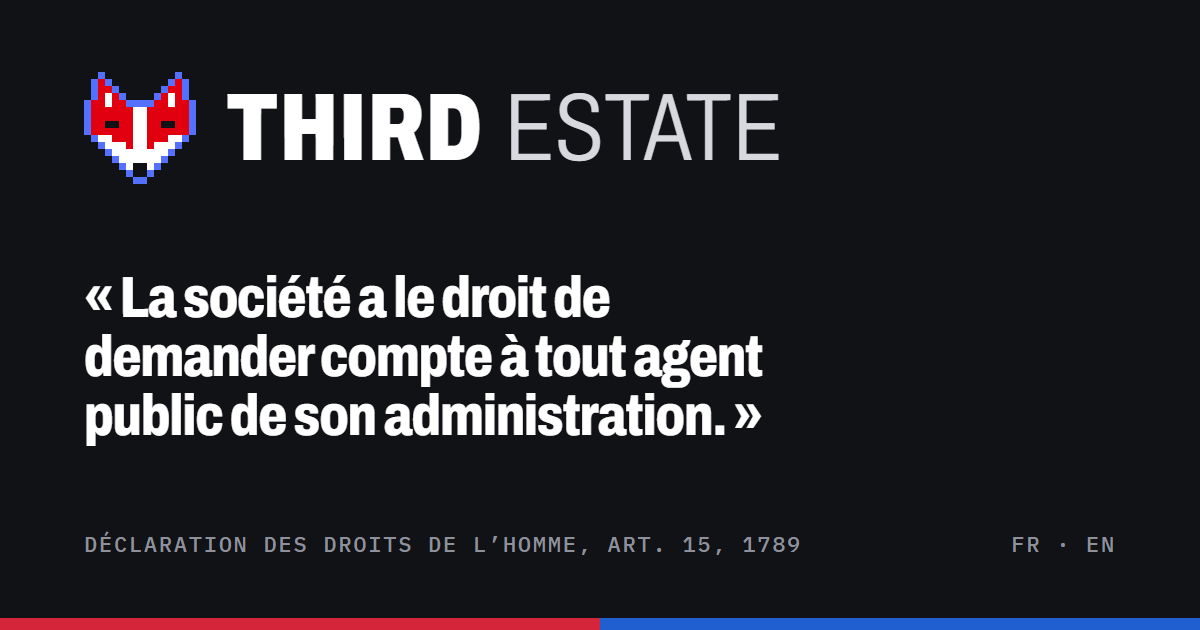
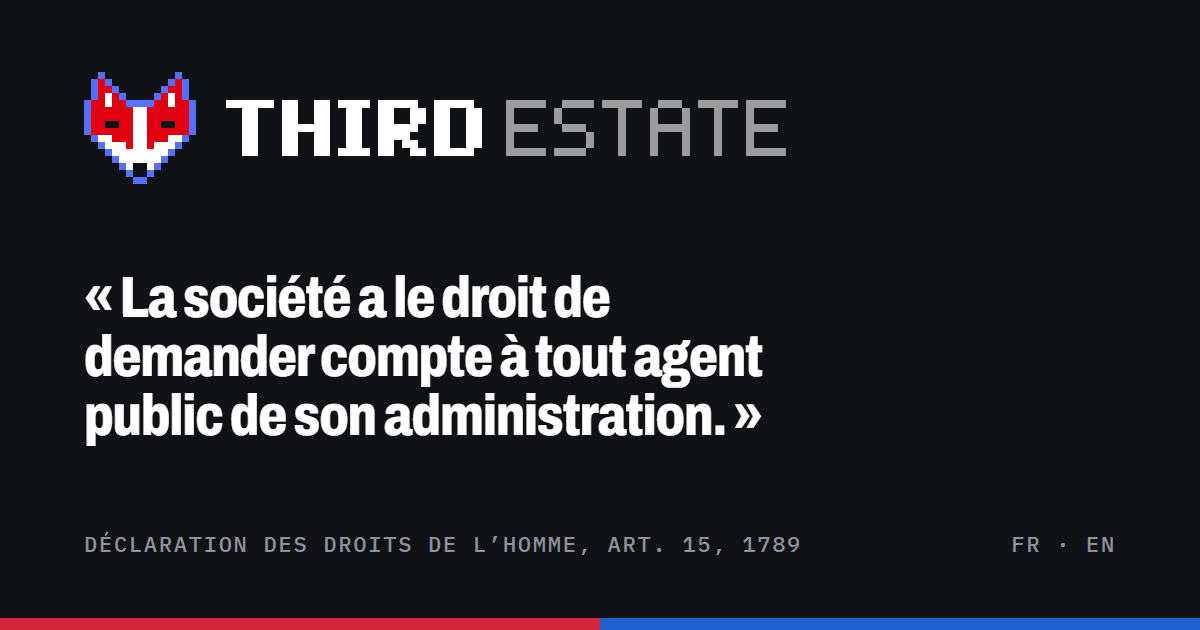
update

Changed region(s): [[0.185, 0.1508, 0.6783, 0.2714]]

diff --git a/docs/brand/og-source.html b/docs/brand/og-source.html
@@ -5,14 +5,14 @@
 html,body{margin:0;width:1200px;height:630px;background:#111216;color:#fff;font-family:Archivo,sans-serif;overflow:hidden}
 .wrap{position:absolute;inset:0;padding:72px 84px;display:flex;flex-direction:column;justify-content:space-between}
 .top{display:flex;align-items:center;gap:30px}
-.top svg{width:112px;height:112px;display:block}
+.top svg{display:block}.top svg.fox{width:112px;height:112px}
 .word{font-size:96px;font-weight:850;font-stretch:75%;text-transform:uppercase;letter-spacing:.01em;line-height:1}
 .word span{font-weight:300;color:#d8d9de;margin-left:.22em}
 h1{font-size:58px;font-weight:800;font-stretch:78%;line-height:1.02;letter-spacing:-.02em;margin:0;max-width:24ch}
 .foot{font:500 22px 'IBM Plex Mono',monospace;text-transform:uppercase;letter-spacing:.08em;color:#8e919b;display:flex;justify-content:space-between}
 .bar{position:absolute;left:0;right:0;bottom:0;height:12px;background:linear-gradient(90deg,#d4253a 0 50%,#1f5fcf 50% 100%)}
 </style></head><body><div class="wrap">
-<div class="top"><svg class="fox" viewBox="0 0 16 16" width="112" height="112" shape-rendering="crispEdges" aria-hidden="true"><rect x="2" y="0" width="1" height="1" fill="#5470ff"/><rect x="13" y="0" width="1" height="1" fill="#5470ff"/><rect x="1" y="1" width="1" height="1" fill="#5470ff"/><rect x="2" y="1" width="1" height="1" fill="#e1000f"/><rect x="3" y="1" width="1" height="1" fill="#5470ff"/><rect x="12" y="1" width="1" height="1" fill="#5470ff"/><rect x="13" y="1" width="1" height="1" fill="#e1000f"/><rect x="14" y="1" width="1" height="1" fill="#5470ff"/><rect x="1" y="2" width="1" height="1" fill="#5470ff"/><rect x="2" y="2" width="2" height="1" fill="#e1000f"/><rect x="4" y="2" width="1" height="1" fill="#5470ff"/><rect x="11" y="2" width="1" height="1" fill="#5470ff"/><rect x="12" y="2" width="2" height="1" fill="#e1000f"/><rect x="14" y="2" width="1" height="1" fill="#5470ff"/><rect x="1" y="3" width="1" height="1" fill="#5470ff"/><rect x="2" y="3" width="1" height="1" fill="#e1000f"/><rect x="3" y="3" width="1" height="1" fill="#ffffff"/><rect x="4" y="3" width="1" height="1" fill="#e1000f"/><rect x="5" y="3" width="1" height="1" fill="#5470ff"/><rect x="10" y="3" width="1" height="1" fill="#5470ff"/><rect x="11" y="3" width="1" height="1" fill="#e1000f"/><rect x="12" y="3" width="1" height="1" fill="#ffffff"/><rect x="13" y="3" width="1" height="1" fill="#e1000f"/><rect x="14" y="3" width="1" height="1" fill="#5470ff"/><rect x="0" y="4" width="1" height="1" fill="#5470ff"/><rect x="1" y="4" width="2" height="1" fill="#e1000f"/><rect x="3" y="4" width="1" height="1" fill="#ffffff"/><rect x="4" y="4" width="2" height="1" fill="#e1000f"/><rect x="6" y="4" width="4" height="1" fill="#5470ff"/><rect x="10" y="4" width="2" height="1" fill="#e1000f"/><rect x="12" y="4" width="1" height="1" fill="#ffffff"/><rect x="13" y="4" width="2" height="1" fill="#e1000f"/><rect x="15" y="4" width="1" height="1" fill="#5470ff"/><rect x="0" y="5" width="1" height="1" fill="#5470ff"/><rect x="1" y="5" width="6" height="1" fill="#e1000f"/><rect x="7" y="5" width="2" height="1" fill="#ffffff"/><rect x="9" y="5" width="6" height="1" fill="#e1000f"/><rect x="15" y="5" width="1" height="1" fill="#5470ff"/><rect x="0" y="6" width="1" height="1" fill="#5470ff"/><rect x="1" y="6" width="6" height="1" fill="#e1000f"/><rect x="7" y="6" width="2" height="1" fill="#ffffff"/><rect x="9" y="6" width="6" height="1" fill="#e1000f"/><rect x="15" y="6" width="1" height="1" fill="#5470ff"/><rect x="0" y="7" width="1" height="1" fill="#5470ff"/><rect x="1" y="7" width="2" height="1" fill="#e1000f"/><rect x="3" y="7" width="2" height="1" fill="#111216"/><rect x="5" y="7" width="2" height="1" fill="#e1000f"/><rect x="7" y="7" width="2" height="1" fill="#ffffff"/><rect x="9" y="7" width="2" height="1" fill="#e1000f"/><rect x="11" y="7" width="2" height="1" fill="#111216"/><rect x="13" y="7" width="2" height="1" fill="#e1000f"/><rect x="15" y="7" width="1" height="1" fill="#5470ff"/><rect x="0" y="8" width="1" height="1" fill="#5470ff"/><rect x="1" y="8" width="6" height="1" fill="#e1000f"/><rect x="7" y="8" width="2" height="1" fill="#ffffff"/><rect x="9" y="8" width="6" height="1" fill="#e1000f"/><rect x="15" y="8" width="1" height="1" fill="#5470ff"/><rect x="1" y="9" width="1" height="1" fill="#5470ff"/><rect x="2" y="9" width="2" height="1" fill="#ffffff"/><rect x="4" y="9" width="3" height="1" fill="#e1000f"/><rect x="7" y="9" width="2" height="1" fill="#ffffff"/><rect x="9" y="9" width="3" height="1" fill="#e1000f"/><rect x="12" y="9" width="2" height="1" fill="#ffffff"/><rect x="14" y="9" width="1" height="1" fill="#5470ff"/><rect x="2" y="10" width="1" height="1" fill="#5470ff"/><rect x="3" y="10" width="3" height="1" fill="#ffffff"/><rect x="6" y="10" width="1" height="1" fill="#e1000f"/><rect x="7" y="10" width="2" height="1" fill="#ffffff"/><rect x="9" y="10" width="1" height="1" fill="#e1000f"/><rect x="10" y="10" width="3" height="1" fill="#ffffff"/><rect x="13" y="10" width="1" height="1" fill="#5470ff"/><rect x="3" y="11" width="1" height="1" fill="#5470ff"/><rect x="4" y="11" width="8" height="1" fill="#ffffff"/><rect x="12" y="11" width="1" height="1" fill="#5470ff"/><rect x="4" y="12" width="1" height="1" fill="#5470ff"/><rect x="5" y="12" width="6" height="1" fill="#ffffff"/><rect x="11" y="12" width="1" height="1" fill="#5470ff"/><rect x="5" y="13" width="1" height="1" fill="#5470ff"/><rect x="6" y="13" width="1" height="1" fill="#ffffff"/><rect x="7" y="13" width="2" height="1" fill="#111216"/><rect x="9" y="13" width="1" height="1" fill="#ffffff"/><rect x="10" y="13" width="1" height="1" fill="#5470ff"/><rect x="6" y="14" width="1" height="1" fill="#5470ff"/><rect x="7" y="14" width="2" height="1" fill="#111216"/><rect x="9" y="14" width="1" height="1" fill="#5470ff"/><rect x="7" y="15" width="2" height="1" fill="#5470ff"/></svg><div class="word">Third<span>Estate</span></div></div>
+<div class="top"><svg class="fox" viewBox="0 0 16 16" width="112" height="112" shape-rendering="crispEdges" aria-hidden="true"><rect x="2" y="0" width="1" height="1" fill="#5470ff"/><rect x="13" y="0" width="1" height="1" fill="#5470ff"/><rect x="1" y="1" width="1" height="1" fill="#5470ff"/><rect x="2" y="1" width="1" height="1" fill="#e1000f"/><rect x="3" y="1" width="1" height="1" fill="#5470ff"/><rect x="12" y="1" width="1" height="1" fill="#5470ff"/><rect x="13" y="1" width="1" height="1" fill="#e1000f"/><rect x="14" y="1" width="1" height="1" fill="#5470ff"/><rect x="1" y="2" width="1" height="1" fill="#5470ff"/><rect x="2" y="2" width="2" height="1" fill="#e1000f"/><rect x="4" y="2" width="1" height="1" fill="#5470ff"/><rect x="11" y="2" width="1" height="1" fill="#5470ff"/><rect x="12" y="2" width="2" height="1" fill="#e1000f"/><rect x="14" y="2" width="1" height="1" fill="#5470ff"/><rect x="1" y="3" width="1" height="1" fill="#5470ff"/><rect x="2" y="3" width="1" height="1" fill="#e1000f"/><rect x="3" y="3" width="1" height="1" fill="#ffffff"/><rect x="4" y="3" width="1" height="1" fill="#e1000f"/><rect x="5" y="3" width="1" height="1" fill="#5470ff"/><rect x="10" y="3" width="1" height="1" fill="#5470ff"/><rect x="11" y="3" width="1" height="1" fill="#e1000f"/><rect x="12" y="3" width="1" height="1" fill="#ffffff"/><rect x="13" y="3" width="1" height="1" fill="#e1000f"/><rect x="14" y="3" width="1" height="1" fill="#5470ff"/><rect x="0" y="4" width="1" height="1" fill="#5470ff"/><rect x="1" y="4" width="2" height="1" fill="#e1000f"/><rect x="3" y="4" width="1" height="1" fill="#ffffff"/><rect x="4" y="4" width="2" height="1" fill="#e1000f"/><rect x="6" y="4" width="4" height="1" fill="#5470ff"/><rect x="10" y="4" width="2" height="1" fill="#e1000f"/><rect x="12" y="4" width="1" height="1" fill="#ffffff"/><rect x="13" y="4" width="2" height="1" fill="#e1000f"/><rect x="15" y="4" width="1" height="1" fill="#5470ff"/><rect x="0" y="5" width="1" height="1" fill="#5470ff"/><rect x="1" y="5" width="6" height="1" fill="#e1000f"/><rect x="7" y="5" width="2" height="1" fill="#ffffff"/><rect x="9" y="5" width="6" height="1" fill="#e1000f"/><rect x="15" y="5" width="1" height="1" fill="#5470ff"/><rect x="0" y="6" width="1" height="1" fill="#5470ff"/><rect x="1" y="6" width="6" height="1" fill="#e1000f"/><rect x="7" y="6" width="2" height="1" fill="#ffffff"/><rect x="9" y="6" width="6" height="1" fill="#e1000f"/><rect x="15" y="6" width="1" height="1" fill="#5470ff"/><rect x="0" y="7" width="1" height="1" fill="#5470ff"/><rect x="1" y="7" width="2" height="1" fill="#e1000f"/><rect x="3" y="7" width="2" height="1" fill="#111216"/><rect x="5" y="7" width="2" height="1" fill="#e1000f"/><rect x="7" y="7" width="2" height="1" fill="#ffffff"/><rect x="9" y="7" width="2" height="1" fill="#e1000f"/><rect x="11" y="7" width="2" height="1" fill="#111216"/><rect x="13" y="7" width="2" height="1" fill="#e1000f"/><rect x="15" y="7" width="1" height="1" fill="#5470ff"/><rect x="0" y="8" width="1" height="1" fill="#5470ff"/><rect x="1" y="8" width="6" height="1" fill="#e1000f"/><rect x="7" y="8" width="2" height="1" fill="#ffffff"/><rect x="9" y="8" width="6" height="1" fill="#e1000f"/><rect x="15" y="8" width="1" height="1" fill="#5470ff"/><rect x="1" y="9" width="1" height="1" fill="#5470ff"/><rect x="2" y="9" width="2" height="1" fill="#ffffff"/><rect x="4" y="9" width="3" height="1" fill="#e1000f"/><rect x="7" y="9" width="2" height="1" fill="#ffffff"/><rect x="9" y="9" width="3" height="1" fill="#e1000f"/><rect x="12" y="9" width="2" height="1" fill="#ffffff"/><rect x="14" y="9" width="1" height="1" fill="#5470ff"/><rect x="2" y="10" width="1" height="1" fill="#5470ff"/><rect x="3" y="10" width="3" height="1" fill="#ffffff"/><rect x="6" y="10" width="1" height="1" fill="#e1000f"/><rect x="7" y="10" width="2" height="1" fill="#ffffff"/><rect x="9" y="10" width="1" height="1" fill="#e1000f"/><rect x="10" y="10" width="3" height="1" fill="#ffffff"/><rect x="13" y="10" width="1" height="1" fill="#5470ff"/><rect x="3" y="11" width="1" height="1" fill="#5470ff"/><rect x="4" y="11" width="8" height="1" fill="#ffffff"/><rect x="12" y="11" width="1" height="1" fill="#5470ff"/><rect x="4" y="12" width="1" height="1" fill="#5470ff"/><rect x="5" y="12" width="6" height="1" fill="#ffffff"/><rect x="11" y="12" width="1" height="1" fill="#5470ff"/><rect x="5" y="13" width="1" height="1" fill="#5470ff"/><rect x="6" y="13" width="1" height="1" fill="#ffffff"/><rect x="7" y="13" width="2" height="1" fill="#111216"/><rect x="9" y="13" width="1" height="1" fill="#ffffff"/><rect x="10" y="13" width="1" height="1" fill="#5470ff"/><rect x="6" y="14" width="1" height="1" fill="#5470ff"/><rect x="7" y="14" width="2" height="1" fill="#111216"/><rect x="9" y="14" width="1" height="1" fill="#5470ff"/><rect x="7" y="15" width="2" height="1" fill="#5470ff"/></svg><svg class="wordmark" viewBox="0 0 70 7" width="560" height="56" shape-rendering="crispEdges" aria-hidden="true"><rect x="0" y="0" width="6" height="1" fill="currentColor"/><rect x="2" y="1" width="2" height="1" fill="currentColor"/><rect x="2" y="2" width="2" height="1" fill="currentColor"/><rect x="2" y="3" width="2" height="1" fill="currentColor"/><rect x="2" y="4" width="2" height="1" fill="currentColor"/><rect x="2" y="5" width="2" height="1" fill="currentColor"/><rect x="2" y="6" width="2" height="1" fill="currentColor"/><rect x="7" y="0" width="2" height="1" fill="currentColor"/><rect x="11" y="0" width="2" height="1" fill="currentColor"/><rect x="7" y="1" width="2" height="1" fill="currentColor"/><rect x="11" y="1" width="2" height="1" fill="currentColor"/><rect x="7" y="2" width="2" height="1" fill="currentColor"/><rect x="11" y="2" width="2" height="1" fill="currentColor"/><rect x="7" y="3" width="6" height="1" fill="currentColor"/><rect x="7" y="4" width="2" height="1" fill="currentColor"/><rect x="11" y="4" width="2" height="1" fill="currentColor"/><rect x="7" y="5" width="2" height="1" fill="currentColor"/><rect x="11" y="5" width="2" height="1" fill="currentColor"/><rect x="7" y="6" width="2" height="1" fill="currentColor"/><rect x="11" y="6" width="2" height="1" fill="currentColor"/><rect x="14" y="0" width="4" height="1" fill="currentColor"/><rect x="15" y="1" width="2" height="1" fill="currentColor"/><rect x="15" y="2" width="2" height="1" fill="currentColor"/><rect x="15" y="3" width="2" height="1" fill="currentColor"/><rect x="15" y="4" width="2" height="1" fill="currentColor"/><rect x="15" y="5" width="2" height="1" fill="currentColor"/><rect x="14" y="6" width="4" height="1" fill="currentColor"/><rect x="19" y="0" width="5" height="1" fill="currentColor"/><rect x="19" y="1" width="2" height="1" fill="currentColor"/><rect x="23" y="1" width="2" height="1" fill="currentColor"/><rect x="19" y="2" width="2" height="1" fill="currentColor"/><rect x="23" y="2" width="2" height="1" fill="currentColor"/><rect x="19" y="3" width="5" height="1" fill="currentColor"/><rect x="19" y="4" width="4" height="1" fill="currentColor"/><rect x="19" y="5" width="2" height="1" fill="currentColor"/><rect x="22" y="5" width="2" height="1" fill="currentColor"/><rect x="19" y="6" width="2" height="1" fill="currentColor"/><rect x="23" y="6" width="2" height="1" fill="currentColor"/><rect x="26" y="0" width="5" height="1" fill="currentColor"/><rect x="26" y="1" width="2" height="1" fill="currentColor"/><rect x="30" y="1" width="2" height="1" fill="currentColor"/><rect x="26" y="2" width="2" height="1" fill="currentColor"/><rect x="30" y="2" width="2" height="1" fill="currentColor"/><rect x="26" y="3" width="2" height="1" fill="currentColor"/><rect x="30" y="3" width="2" height="1" fill="currentColor"/><rect x="26" y="4" width="2" height="1" fill="currentColor"/><rect x="30" y="4" width="2" height="1" fill="currentColor"/><rect x="26" y="5" width="2" height="1" fill="currentColor"/><rect x="30" y="5" width="2" height="1" fill="currentColor"/><rect x="26" y="6" width="5" height="1" fill="currentColor"/><rect x="35" y="0" width="5" height="1" fill="#9b9b9b"/><rect x="35" y="1" width="1" height="1" fill="#9b9b9b"/><rect x="35" y="2" width="1" height="1" fill="#9b9b9b"/><rect x="35" y="3" width="4" height="1" fill="#9b9b9b"/><rect x="35" y="4" width="1" height="1" fill="#9b9b9b"/><rect x="35" y="5" width="1" height="1" fill="#9b9b9b"/><rect x="35" y="6" width="5" height="1" fill="#9b9b9b"/><rect x="42" y="0" width="4" height="1" fill="#9b9b9b"/><rect x="41" y="1" width="1" height="1" fill="#9b9b9b"/><rect x="41" y="2" width="1" height="1" fill="#9b9b9b"/><rect x="42" y="3" width="3" height="1" fill="#9b9b9b"/><rect x="45" y="4" width="1" height="1" fill="#9b9b9b"/><rect x="45" y="5" width="1" height="1" fill="#9b9b9b"/><rect x="41" y="6" width="4" height="1" fill="#9b9b9b"/><rect x="47" y="0" width="5" height="1" fill="#9b9b9b"/><rect x="49" y="1" width="1" height="1" fill="#9b9b9b"/><rect x="49" y="2" width="1" height="1" fill="#9b9b9b"/><rect x="49" y="3" width="1" height="1" fill="#9b9b9b"/><rect x="49" y="4" width="1" height="1" fill="#9b9b9b"/><rect x="49" y="5" width="1" height="1" fill="#9b9b9b"/><rect x="49" y="6" width="1" height="1" fill="#9b9b9b"/><rect x="54" y="0" width="3" height="1" fill="#9b9b9b"/><rect x="53" y="1" width="1" height="1" fill="#9b9b9b"/><rect x="57" y="1" width="1" height="1" fill="#9b9b9b"/><rect x="53" y="2" width="1" height="1" fill="#9b9b9b"/><rect x="57" y="2" width="1" height="1" fill="#9b9b9b"/><rect x="53" y="3" width="5" height="1" fill="#9b9b9b"/><rect x="53" y="4" width="1" height="1" fill="#9b9b9b"/><rect x="57" y="4" width="1" height="1" fill="#9b9b9b"/><rect x="53" y="5" width="1" height="1" fill="#9b9b9b"/><rect x="57" y="5" width="1" height="1" fill="#9b9b9b"/><rect x="53" y="6" width="1" height="1" fill="#9b9b9b"/><rect x="57" y="6" width="1" height="1" fill="#9b9b9b"/><rect x="59" y="0" width="5" height="1" fill="#9b9b9b"/><rect x="61" y="1" width="1" height="1" fill="#9b9b9b"/><rect x="61" y="2" width="1" height="1" fill="#9b9b9b"/><rect x="61" y="3" width="1" height="1" fill="#9b9b9b"/><rect x="61" y="4" width="1" height="1" fill="#9b9b9b"/><rect x="61" y="5" width="1" height="1" fill="#9b9b9b"/><rect x="61" y="6" width="1" height="1" fill="#9b9b9b"/><rect x="65" y="0" width="5" height="1" fill="#9b9b9b"/><rect x="65" y="1" width="1" height="1" fill="#9b9b9b"/><rect x="65" y="2" width="1" height="1" fill="#9b9b9b"/><rect x="65" y="3" width="4" height="1" fill="#9b9b9b"/><rect x="65" y="4" width="1" height="1" fill="#9b9b9b"/><rect x="65" y="5" width="1" height="1" fill="#9b9b9b"/><rect x="65" y="6" width="5" height="1" fill="#9b9b9b"/></svg></div>
 <h1>« La société a le droit de demander compte à tout agent public de son administration. »</h1>
 <div class="foot"><span>Déclaration des droits de l’homme, art. 15, 1789</span><span>FR · EN</span></div>
 </div><div class="bar"></div></body></html>

diff --git a/docs/brand/identity-v3-options.html b/docs/brand/identity-v3-options.html
@@ -1,0 +1,116 @@
+<!doctype html><html lang="en"><head><meta charset="utf-8"><meta name="viewport" content="width=device-width, initial-scale=1">
+<title>Identity options</title>
+<!-- Served by the Vite dev server: http://localhost:<port>/docs/brand/identity-v3-options.html (fonts come from /public/fonts) -->
+<style>
+@font-face{font-family:Geist;src:url(/fonts/geist-variable.woff2) format("woff2");font-weight:100 900}
+@font-face{font-family:"Geist Mono";src:url(/fonts/geist-mono-variable.woff2) format("woff2");font-weight:100 900}
+@font-face{font-family:Archivo;src:url(/fonts/archivo-100-900-latin.woff2) format("woff2");font-weight:100 900;font-stretch:62% 125%}
+@font-face{font-family:Silkscreen;src:url(/fonts/silkscreen-400-latin.woff2) format("woff2");font-weight:400}
+@font-face{font-family:Silkscreen;src:url(/fonts/silkscreen-700-latin.woff2) format("woff2");font-weight:700}
+:root{--night:#131209;--ink:#0d0f1a;--ink2:#474c56;--ink3:#686d77;--rule:#e2dfd4}
+*{box-sizing:border-box}
+body{margin:0;background:#fff;color:var(--ink);font:400 16px/24px Geist,system-ui,sans-serif}
+main{max-width:1200px;margin:0 auto;padding:48px 16px 96px}
+h1{font:600 36px/40px Geist;letter-spacing:-.02em;margin:0 0 12px}
+.dek{margin:0 0 48px;max-width:680px;color:var(--ink2);font-size:18px;line-height:28px}
+h2{font:600 24px/32px Geist;letter-spacing:-.01em;margin:64px 0 16px;padding-top:24px;border-top:2px solid var(--ink);position:relative}
+h2::before{content:"";position:absolute;top:-5px;left:0;width:8px;height:8px;background:var(--ink)}
+.k{font:400 12px/16px Silkscreen;text-transform:uppercase;letter-spacing:.04em;color:var(--ink3);margin:0}
+/* parts */
+.parts{display:grid;grid-template-columns:repeat(auto-fill,minmax(260px,1fr));gap:16px}
+.part{display:grid;gap:8px}
+.part .sw{display:flex;align-items:center;justify-content:center;gap:24px;height:128px;background:var(--night);color:#fff}
+.part .sw.l{background:#f4f3ee;color:var(--ink)}
+.part b{font:600 16px/24px Geist}
+.part>span{font:400 14px/20px Geist;color:var(--ink2)}
+/* lockups */
+.lock{display:grid;grid-template-columns:1fr 1fr;border:2px solid var(--rule);margin-bottom:24px}
+.lock header{grid-column:1/-1;display:flex;flex-wrap:wrap;align-items:baseline;gap:8px 16px;padding:16px 24px;border-bottom:2px solid var(--rule)}
+.lock header b{font:600 20px/28px Geist}
+.lock header .tag{font:600 12px/16px "Geist Mono";background:var(--ink);color:#fff;padding:2px 8px}
+.lock header p{flex-basis:100%;margin:0;color:var(--ink2);font-size:14px;line-height:20px;max-width:880px}
+.stage{display:flex;align-items:center;justify-content:center;min-height:160px;padding:32px 24px}
+.stage.d{background:var(--night);color:#fff}
+.stage.w{background:#fff;color:var(--ink)}
+.row{grid-column:1/-1;display:flex;flex-wrap:wrap;align-items:center;gap:24px;padding:16px 24px;border-top:2px solid var(--rule);font:500 12px/16px "Geist Mono";color:var(--ink3)}
+.row .bar{display:flex;align-items:center;gap:12px;height:56px;padding:0 16px;background:var(--night);color:#fff;clip-path:polygon(0 4px,2px 4px,2px 2px,4px 2px,4px 0,calc(100% - 4px) 0,calc(100% - 4px) 2px,calc(100% - 2px) 2px,calc(100% - 2px) 4px,100% 4px,100% calc(100% - 4px),calc(100% - 2px) calc(100% - 4px),calc(100% - 2px) calc(100% - 2px),calc(100% - 4px) calc(100% - 2px),calc(100% - 4px) 100%,4px 100%,4px calc(100% - 2px),2px calc(100% - 2px),2px calc(100% - 4px),0 calc(100% - 4px))}
+.row .bar i{font:500 14px Geist;font-style:normal;color:#cfcfcf}
+.fav{display:inline-flex;align-items:center;gap:8px}
+.lk{display:inline-flex;align-items:center}
+.lk.stack{flex-direction:column;gap:12px}
+svg{display:block}
+/* wordmarks */
+.w-archivo{font-family:Archivo;font-weight:850;font-stretch:75%;text-transform:uppercase;letter-spacing:.01em;line-height:1;white-space:nowrap}
+.w-archivo span{font-weight:300;margin-left:.22em}
+.w-geist{font-family:Geist;font-weight:600;letter-spacing:-.035em;line-height:1;white-space:nowrap}
+.w-geist span{font-weight:400;opacity:.62}
+.w-silk{font-family:Silkscreen;font-weight:700;text-transform:uppercase;line-height:1;letter-spacing:.02em;white-space:nowrap}
+.w-silk span{font-weight:400;opacity:.7;margin-left:.3em}
+.w-mono{font-family:"Geist Mono";font-weight:500;letter-spacing:-.02em;line-height:1;white-space:nowrap;text-transform:lowercase}
+.w-mono span{opacity:.55}
+.pick{margin-top:64px;padding:24px;background:#f4f3ee}
+.pick ol{margin:8px 0 0;padding-left:20px}
+</style></head><body><main>
+<p class="k">Third Estate · identity v3 · options</p>
+<h1>Logo and wordmark options</h1>
+<p class="dek">Four marks and five wordmarks, then six ways to combine them. Each lockup is shown on night, on white, in the masthead pill at its real size, and as a favicon at 32 and 16 pixels. All marks stay on a pixel grid.</p>
+
+<h2>The marks</h2>
+<div class="parts" id="marks"></div>
+
+<h2>The wordmarks</h2>
+<div class="parts" id="words"></div>
+
+<h2>Lockups</h2>
+<div id="locks"></div>
+
+<div class="pick"><p class="k">How to answer</p><ol><li>Pick a lockup (1 to 6), or a mark letter and a wordmark number (for example M2 + W3).</li><li>Say anything to change: colours, weight, casing, stacked or inline.</li></ol></div>
+</main>
+<script>
+const BLEU="#000091", BLEU_D="#5470ff", ROUGE="#e1000f", WHITE="#ffffff", EYE="#111216";
+// ---------- grids ----------
+const FOX=["..K..........K..",".KLK........KRK.",".KLLK......KRRK.",".KLILK....KRIRK.","KLLILLKKKKRRIRRK","KLLLLLLMMRRRRRRK","KLLLLLLMMRRRRRRK","KLLEELLMMRREERRK","KLLLLLLMMRRRRRRK",".KMMLLLMMRRRMMK.","..KMMMLMMRMMMK..","...KMMMMMMMMK...","....KMMMMMMK....",".....KMNNMK.....","......KNNK......",".......KK......."];
+// flat tricolour fox, 12×12, no outline: red fur, white muzzle and ears, blue eyes and nose
+const FLAT=["RR........RR","RWR......RWR","RWWRRRRRRWWR","RRRRRRRRRRRR","RRBRRRRRRBRR","RRRRRWWRRRRR","WWRRWWWWRRWW",".WWWWWWWWWW.","..WWWWWWWW..","...WWBBWW...","....WBBW....",".....WW....."];
+// the numeral III, serifs top and bottom, the third stem split red | blue
+const III=["................","................",".IIIIIIIIIIIIII.",".IIIIIIIIIIIIII.","...II..II..RB...","...II..II..RB...","...II..II..RB...","...II..II..RB...","...II..II..RB...","...II..II..RB...","...II..II..RB...","...II..II..RB...",".IIIIIIIIIIIIII.",".IIIIIIIIIIIIII.","................","................"];
+function rects(grid,pal,ox=0,oy=0){let s="";grid.forEach((row,y)=>{for(let x=0;x<row.length;){const c=row[x];let e=x+1;while(e<row.length&&pal[row[e]]===pal[c])e++;if(pal[c])s+=`<rect x="${ox+x}" y="${oy+y}" width="${e-x}" height="1" fill="${pal[c]}"/>`;x=e}});return s}
+const svg=(w,h,inner,px)=>`<svg viewBox="0 0 ${w} ${h}" width="${w*px}" height="${h*px}" shape-rendering="crispEdges" aria-hidden="true">${inner}</svg>`;
+// marks: (dark, size in css px) -> svg
+const MARKS={
+  M1:{name:"M1 · The fox, as today",note:"16×16, bleu France outline, red fur, white muzzle. Detailed; the outline thins out at 16px.",draw:(d,s)=>svg(16,16,rects(FOX,{K:d?BLEU_D:BLEU,L:ROUGE,R:ROUGE,I:WHITE,M:WHITE,E:EYE,N:EYE}),s/16)},
+  M2:{name:"M2 · Flat tricolour fox",note:"12×12, no outline, bigger pixels. Red fur, white muzzle, blue eyes and nose: the flag in three flat fields. Sharpest as a favicon.",draw:(d,s)=>svg(12,12,rects(FLAT,{R:ROUGE,W:WHITE,B:d?BLEU_D:BLEU}),s/12)},
+  M3:{name:"M3 · Fox line, one colour",note:"The same head, outline, eyes and nose only, in the text colour. Works on any surface, in print, in a stamp.",draw:(d,s)=>svg(16,16,rects(FOX,{K:"currentColor",E:"currentColor",N:"currentColor"}),s/16)},
+  M4:{name:"M4 · III, the third",note:"Drops the animal: the Roman numeral for the third estate, its last stem split red | blue (left and right). Pure type, no mascot.",draw:(d,s)=>svg(16,16,rects(III,{I:"currentColor",R:d?"#ff5a6a":ROUGE,B:d?BLEU_D:BLEU}),s/16)},
+};
+// ---------- custom bitmap wordmark (5×7 caps, THIRD bold, ESTATE regular) ----------
+const G={T:["#####","..#..","..#..","..#..","..#..","..#..","..#.."],H:["#...#","#...#","#...#","#####","#...#","#...#","#...#"],I:["###",".#.",".#.",".#.",".#.",".#.","###"],R:["####.","#...#","#...#","####.","#.#..","#..#.","#...#"],D:["####.","#...#","#...#","#...#","#...#","#...#","####."],E:["#####","#....","#....","####.","#....","#....","#####"],S:[".####","#....","#....",".###.","....#","....#","####."],A:[".###.","#...#","#...#","#####","#...#","#...#","#...#"]};
+function bitmap(word,bold,x0,fill){let s="",x=x0;for(const ch of word){const g=G[ch];const w=g[0].length+(bold?1:0);g.forEach((row,y)=>{[...row].forEach((c,i)=>{if(c==="#")s+=`<rect x="${x+i}" y="${y}" width="${bold?2:1}" height="1" fill="${fill}"/>`})});x+=w+1}return{s,x}}
+function pixelWord(px,dark,stack=false){const a=bitmap("THIRD",true,0,"currentColor");if(stack){const b=bitmap("ESTATE",false,0,dark?"#9b9b9b":"#686d77");const w=Math.max(a.x,b.x);return svg(w,16,a.s+b.s.replace(/y="(\d)"/g,(m,y)=>`y="${+y+9}"`),px)}const b=bitmap("ESTATE",false,a.x+3,dark?"#9b9b9b":"#686d77");return svg(b.x,7,a.s+b.s,px)}
+const WORDS={
+  W1:{name:"W1 · Archivo condensed, as today",note:"Heavy condensed THIRD, light ESTATE. Newsy; the last trace of Archivo on the site.",html:(z)=>`<span class="w-archivo" style="font-size:${z}px">Third<span>Estate</span></span>`},
+  W2:{name:"W2 · Geist, sentence case",note:"The site's own typeface, tight tracking, Estate a step lighter. Calm, current, one typeface everywhere.",html:(z)=>`<span class="w-geist" style="font-size:${z}px">Third <span>Estate</span></span>`},
+  W3:{name:"W3 · Drawn pixel letters",note:"Bespoke 5×7 bitmap caps drawn on the fox's grid: THIRD in a doubled stroke, ESTATE single. Ownable, crisp at any multiple.",html:(z,d,stack)=>pixelWord(Math.max(2,Math.round(z/7)),d,stack)},
+  W4:{name:"W4 · Silkscreen",note:"The pixel face already used for micro labels. Fully pixel at once, but a stock font anyone can use.",html:(z)=>`<span class="w-silk" style="font-size:${Math.round(z*.8)}px">Third<span>Estate</span></span>`},
+  W5:{name:"W5 · Geist Mono, lowercase",note:"third estate in the data face: reads like a terminal or a desk feed. Quiet, technical.",html:(z)=>`<span class="w-mono" style="font-size:${Math.round(z*.9)}px">third<span>.estate</span></span>`},
+};
+// ---------- render parts ----------
+document.getElementById("marks").innerHTML=Object.values(MARKS).map(m=>`<div class="part"><div class="sw">${m.draw(true,96)}${m.draw(true,32)}${m.draw(true,16)}</div><div class="sw l">${m.draw(false,96)}${m.draw(false,32)}${m.draw(false,16)}</div><b>${m.name}</b><span>${m.note}</span></div>`).join("");
+document.getElementById("words").innerHTML=Object.values(WORDS).map(w=>`<div class="part"><div class="sw">${w.html(28,true)}</div><div class="sw l">${w.html(28,false)}</div><b>${w.name}</b><span>${w.note}</span></div>`).join("");
+// ---------- lockups ----------
+const LOCKS=[
+  {n:1,m:"M1",w:"W1",t:"Today",p:"For reference: the current fox and the Archivo wordmark."},
+  {n:2,m:"M1",w:"W2",t:"Smallest change",p:"Keep the fox exactly, move the wordmark onto Geist so the whole site speaks one typeface. Lowest risk, nothing to relearn."},
+  {n:3,m:"M2",w:"W3",t:"All pixel (recommended)",p:"Flat tricolour fox and drawn pixel letters on the same grid: one system from favicon to share card, owned outright, no stock font in the logo. The fox gets simpler so it survives 16px."},
+  {n:4,m:"M2",w:"W2",t:"Pixel mark, clean type",p:"The flat fox for character, Geist for legibility. A good split if drawn letters feel too retro next to the data."},
+  {n:5,m:"M3",w:"W5",t:"Desk feed",p:"One-colour fox line and the mono wordmark: monochrome, editorial, prints anywhere. Least colourful, most serious."},
+  {n:6,m:"M4",w:"W3",t:"No fox",p:"The numeral III and pixel letters, stacked. Says 'third estate' without a mascot. Included for contrast; it drops the fox you asked to keep earlier.",stack:true},
+];
+const lock=(L,d,z)=>{const m=MARKS[L.m],w=WORDS[L.w];const ms=Math.round(z*(L.stack?1.6:1.15));return `<span class="lk${L.stack?" stack":""}" style="gap:${Math.round(z*.42)}px">${m.draw(d,ms)}${w.html(z,d,L.stack)}</span>`};
+document.getElementById("locks").innerHTML=LOCKS.map(L=>`<section class="lock"><header><span class="tag">${L.n}</span><b>${L.t}</b><span class="k">${L.m} + ${L.w}</span><p>${L.p}</p></header>
+<div class="stage d">${lock(L,true,40)}</div><div class="stage w">${lock(L,false,40)}</div>
+<div class="row"><span class="bar">${lock({...L,stack:false},true,20)}<i>2027 · Your town · Parliament</i></span>
+<span class="fav">${MARKS[L.m].draw(true,32)} 32px</span><span class="fav">${MARKS[L.m].draw(true,16)} 16px</span>
+<span class="fav" style="color:var(--ink)">${MARKS[L.m].draw(false,32)} on white</span></div></section>`).join("");
+</script>
+</body></html>

diff --git a/src/main.ts b/src/main.ts
@@ -29,6 +29,7 @@ import { renderEconomy } from "./views/economy";
 import { renderQuiz } from "./views/quiz";
 import { fetchJson, loadDeputes } from "./data";
 import { foxCells, foxSvg } from "./lib/fox";
+import { wordmarkSvg } from "./lib/wordmark";
 import { pixelIcon, type PixelIcon } from "./lib/pixel-icons";
 import { initSearch, openSearch } from "./lib/search";
 import { foxBusy, initFox, initMotion, pageTransition } from "./lib/motion";
@@ -61,7 +62,7 @@ const searchBtn = document.getElementById("search-btn") as HTMLButtonElement;
 const quizBtn = document.getElementById("quiz-cta") as HTMLAnchorElement;
 const tabbar = document.getElementById("tabbar")!;
 const skip = document.getElementById("skip") as HTMLAnchorElement;
-document.querySelector(".topbar .brand")!.insertAdjacentHTML("afterbegin", foxSvg(28, true));
+document.querySelector(".topbar .brand")!.insertAdjacentHTML("afterbegin", foxSvg(28, true) + wordmarkSvg(2));
 initFox(document.querySelector<SVGSVGElement>(".topbar .brand .fox"));
 initMotion(app);
 // A portrait that fails to load disappears (instead of a broken-image icon). One capturing listener replaces
@@ -323,7 +324,7 @@ function renderChrome(path: string) {
     + `<button type="button" id="menu-btn" aria-haspopup="dialog" aria-controls="menu-sheet">${pixelIcon("menu", 24)}<span>Menu</span></button>`;
   sheet.setAttribute("aria-label", L("Menu du site", "Site menu"));
   sheet.innerHTML = `<div class="ms-box">
-    <header class="ms-head"><span class="ms-brand">${foxSvg(32, true)}<b>Third<span>Estate</span></b></span><button type="button" class="ms-close" data-ms="close" aria-label="${L("Fermer le menu", "Close the menu")}">${pixelIcon("close", 24)}</button></header>
+    <header class="ms-head"><span class="ms-brand" aria-label="Third Estate">${foxSvg(32, true)}${wordmarkSvg(3)}</span><button type="button" class="ms-close" data-ms="close" aria-label="${L("Fermer le menu", "Close the menu")}">${pixelIcon("close", 24)}</button></header>
     <div class="ms-tools">
       <button type="button" data-ms="search">${pixelIcon("search", 12)}<span>${L("Rechercher une commune, un élu, un mot", "Search a town, an official, a word")}</span></button>
       <a class="ms-quiz" href="#/quiz">${L("Le quiz : qui vous ressemble ?", "The quiz: who’s like you?")}</a>
@@ -354,7 +355,7 @@ function renderChrome(path: string) {
   toTop.setAttribute("aria-label", L("Haut de page", "Back to top"));
 
   footer.innerHTML = `<div class="foot-strip" aria-hidden="true"></div><div class="foot">
-    <div class="foot-id"><a class="brand" href="#/" aria-label="Third Estate">${foxSvg(64, true)}<b>Third<span>Estate</span></b></a>
+    <div class="foot-id"><a class="brand" href="#/" aria-label="Third Estate">${foxSvg(64, true)}${wordmarkSvg(3)}</a>
       <p>${L("Données électorales françaises, de la commune à l’Élysée. Sources publiques, méthode ouverte, code libre.", "French election data, from your town hall to the Élysée. Public sources, open method, open code.")}</p>
       <p class="foot-quote">${L("« Qu’est-ce que le tiers état ? Tout. Qu’a-t-il été jusqu’à présent dans l’ordre politique ? Rien. Que demande-t-il ? À y devenir quelque chose. »", "“What is the Third Estate? Everything. What has it been until now in the political order? Nothing. What does it ask? To become something.”")} <span>Sieyès, 1789</span></p></div>
     <nav class="foot-map" aria-label="${L("Plan du site", "Site map")}">${SECTIONS.map((s) => `<div${isGrouped(s) ? ` class="foot-wide"` : ""}><a class="foot-h" href="${s.href}">${pixelIcon(s.icon, 12)}${L(s.fr, s.en)}</a>${isGrouped(s)

diff --git a/src/lib/wordmark.ts b/src/lib/wordmark.ts
@@ -1,0 +1,58 @@
+// The THIRD ESTATE wordmark: bitmap capitals on the fox's pixel grid (5×7 glyphs, one-unit gaps).
+// THIRD is set in a doubled stroke (every pixel also fills its right neighbour), ESTATE in a single stroke and a
+// quieter colour: the old heavy/light Archivo pairing, redrawn in pixels. Render at whole multiples (2, 3, 4…)
+// so every pixel stays square. Used by the masthead, the phone menu, the footer and the share card
+// (scripts/build-brand.mjs imports this file).
+
+const GLYPHS: Record<string, string[]> = {
+  T: ["#####", "..#..", "..#..", "..#..", "..#..", "..#..", "..#.."],
+  H: ["#...#", "#...#", "#...#", "#####", "#...#", "#...#", "#...#"],
+  I: ["###", ".#.", ".#.", ".#.", ".#.", ".#.", "###"],
+  R: ["####.", "#...#", "#...#", "####.", "#.#..", "#..#.", "#...#"],
+  D: ["####.", "#...#", "#...#", "#...#", "#...#", "#...#", "####."],
+  E: ["#####", "#....", "#....", "####.", "#....", "#....", "#####"],
+  S: [".####", "#....", "#....", ".###.", "....#", "....#", "####."],
+  A: [".###.", "#...#", "#...#", "#####", "#...#", "#...#", "#...#"],
+};
+const WORD_GAP = 3;
+
+/** One word as <rect>s (horizontal runs merged) from x0; returns the markup and the x where the next word may start. */
+function word(text: string, bold: boolean, x0: number, fill: string) {
+  let out = "";
+  let x = x0;
+  for (const ch of text) {
+    const g = GLYPHS[ch];
+    const w = g[0].length + (bold ? 1 : 0);
+    g.forEach((row, y) => {
+      // a bold glyph: each "#" also fills the cell to its right
+      const cells = new Set<number>();
+      [...row].forEach((c, i) => { if (c === "#") { cells.add(i); if (bold) cells.add(i + 1); } });
+      for (let i = 0; i < w; ) {
+        if (!cells.has(i)) { i++; continue; }
+        let e = i + 1;
+        while (cells.has(e)) e++;
+        out += `<rect x="${x + i}" y="${y}" width="${e - i}" height="1" fill="${fill}"/>`;
+        i = e;
+      }
+    });
+    x += w + 1;
+  }
+  return { out, end: x - 1 };
+}
+
+/** Width of the wordmark in grid units (height is always 7). */
+const third = word("THIRD", true, 0, "");
+const estate = word("ESTATE", false, third.end + WORD_GAP, "");
+export const WORDMARK_W = estate.end;
+export const WORDMARK_H = 7;
+
+/**
+ * Inline SVG of the wordmark, `px` CSS pixels per grid unit. THIRD takes `currentColor`; ESTATE a quieter tone
+ * (a mid grey on night, the tertiary ink on paper). Decorative: the link around it carries the name.
+ */
+export function wordmarkSvg(px: number, onDark = true, cls = "wordmark") {
+  const quiet = onDark ? "#9b9b9b" : "#686d77";
+  const a = word("THIRD", true, 0, "currentColor");
+  const b = word("ESTATE", false, a.end + WORD_GAP, quiet);
+  return `<svg class="${cls}" viewBox="0 0 ${WORDMARK_W} ${WORDMARK_H}" width="${WORDMARK_W * px}" height="${WORDMARK_H * px}" shape-rendering="crispEdges" aria-hidden="true">${a.out}${b.out}</svg>`;
+}

diff --git a/src/redesign.css b/src/redesign.css
@@ -17,6 +17,10 @@ body *, body *::before, body *::after { border-radius: 0 !important; }
 .topbar { background: var(--night); gap: 1rem; box-shadow: 0 2px 0 var(--night-rule); transition: box-shadow 0.2s; }
 html.is-scrolled .topbar { box-shadow: 0 2px 0 var(--night-rule), 0 10px 0 -4px rgba(11, 13, 24, 0.18); }
 .brand .fox { width: 32px; height: 32px; }
+/* the wordmark: pixel capitals drawn on the fox's grid (src/lib/wordmark.ts), at whole multiples so pixels stay square */
+.wordmark { display: block; flex: none; color: #fff; }
+@media (min-width: 761px) and (max-width: 900px) { .topbar .brand .wordmark { display: none; } }
+@media (max-width: 359px) { .topbar .brand .wordmark { display: none; } }
 .brand:hover .fox { animation: fox-hop 0.4s steps(4); }
 @keyframes fox-hop { 50% { transform: translateY(-3px); } }
 .scroll-px { position: absolute; left: 0; right: 0; bottom: -2px; height: 4px; pointer-events: none; }

diff --git a/index.html b/index.html
@@ -23,9 +23,7 @@
   <body>
     <a class="skip-link" href="#app" id="skip">Aller au contenu</a>
     <header class="topbar">
-      <a class="brand" href="#/" aria-label="Third Estate">
-        <b>Third<span>Estate</span></b>
-      </a>
+      <a class="brand" href="#/" aria-label="Third Estate"></a>
       <nav id="nav" aria-label="Navigation"></nav>
       <div class="top-tools">
         <button id="search-btn" class="search-btn" type="button" aria-haspopup="dialog"></button>

diff --git a/docs/design.md b/docs/design.md
@@ -15,8 +15,7 @@ a white blaze, snout and inner ears (`#ffffff`), ink eyes `#111216` and an ink n
 face. On the black masthead and footer the outline takes a lighter blue `#5470ff` (bleu France would vanish on ink);
 everything else stays. The red-left/blue-right split bar (active tab, kickers) is the political convention and is not
 part of the mark. Keep the grid exact;
-render it at multiples of 16px (24, 28, 32, 112) so pixels stay square. Wordmark: Archivo 850 condensed **THIRD** +
-300 **ESTATE**, uppercase. Favicon: the fox on a rounded ink tile (`public/favicon.svg`). Pixel type (Silkscreen) is
+render it at multiples of 16px (24, 28, 32, 112) so pixels stay square. Wordmark: **THIRD ESTATE** drawn in pixel capitals on the same grid (`wordmarkSvg(px)` in `src/lib/wordmark.ts`, 5×7 glyphs): THIRD in a doubled stroke, ESTATE single-stroke in a quieter grey; rendered at whole multiples (2px masthead, 3px menu and footer, 8px share card). Options explored: `docs/brand/identity-v3-options.html` (chosen: M1 + W3). Favicon: the fox on a rounded ink tile (`public/favicon.svg`). Pixel type (Silkscreen) is
 allowed only for tiny accents, never for text people read (see "Pixel theme"). The 12×12 section icons of
 the phone tab bar and the search glyph (`src/lib/pixel-icons.ts`) share the fox's pixel style, drawn in currentColor.
 Catchphrase: Article 15 of the 1789 Declaration, *« La société a le droit de demander compte à tout agent public de son administration »*, shortened on the homepage to « Demander compte à tout agent public ». Share image: `public/og.png` (1200×630, screenshot of `docs/brand/og-source.html`).
